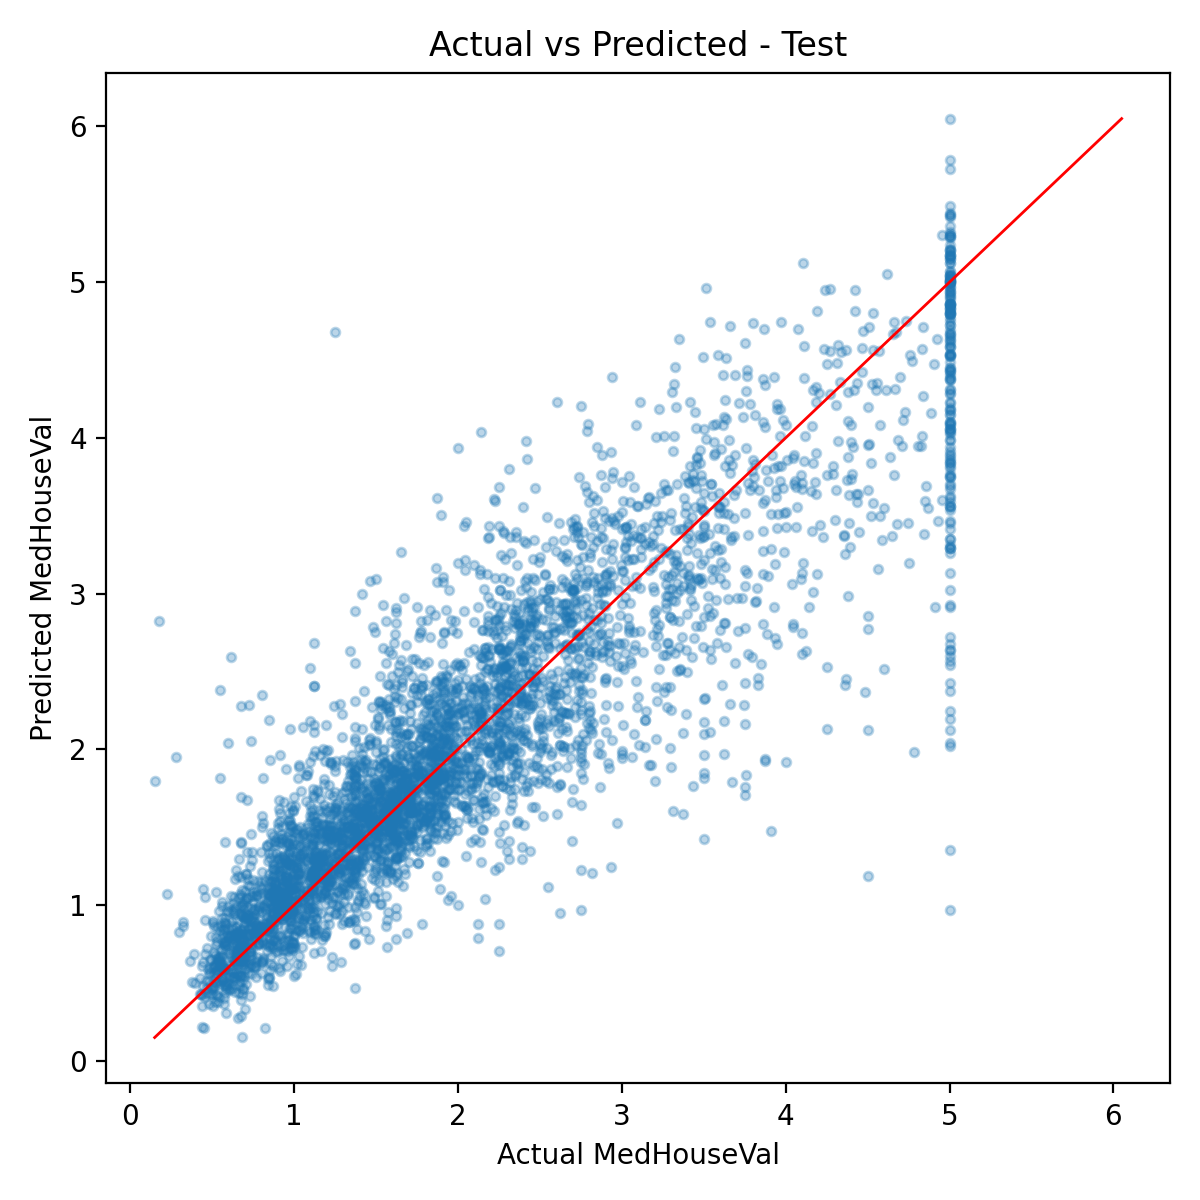
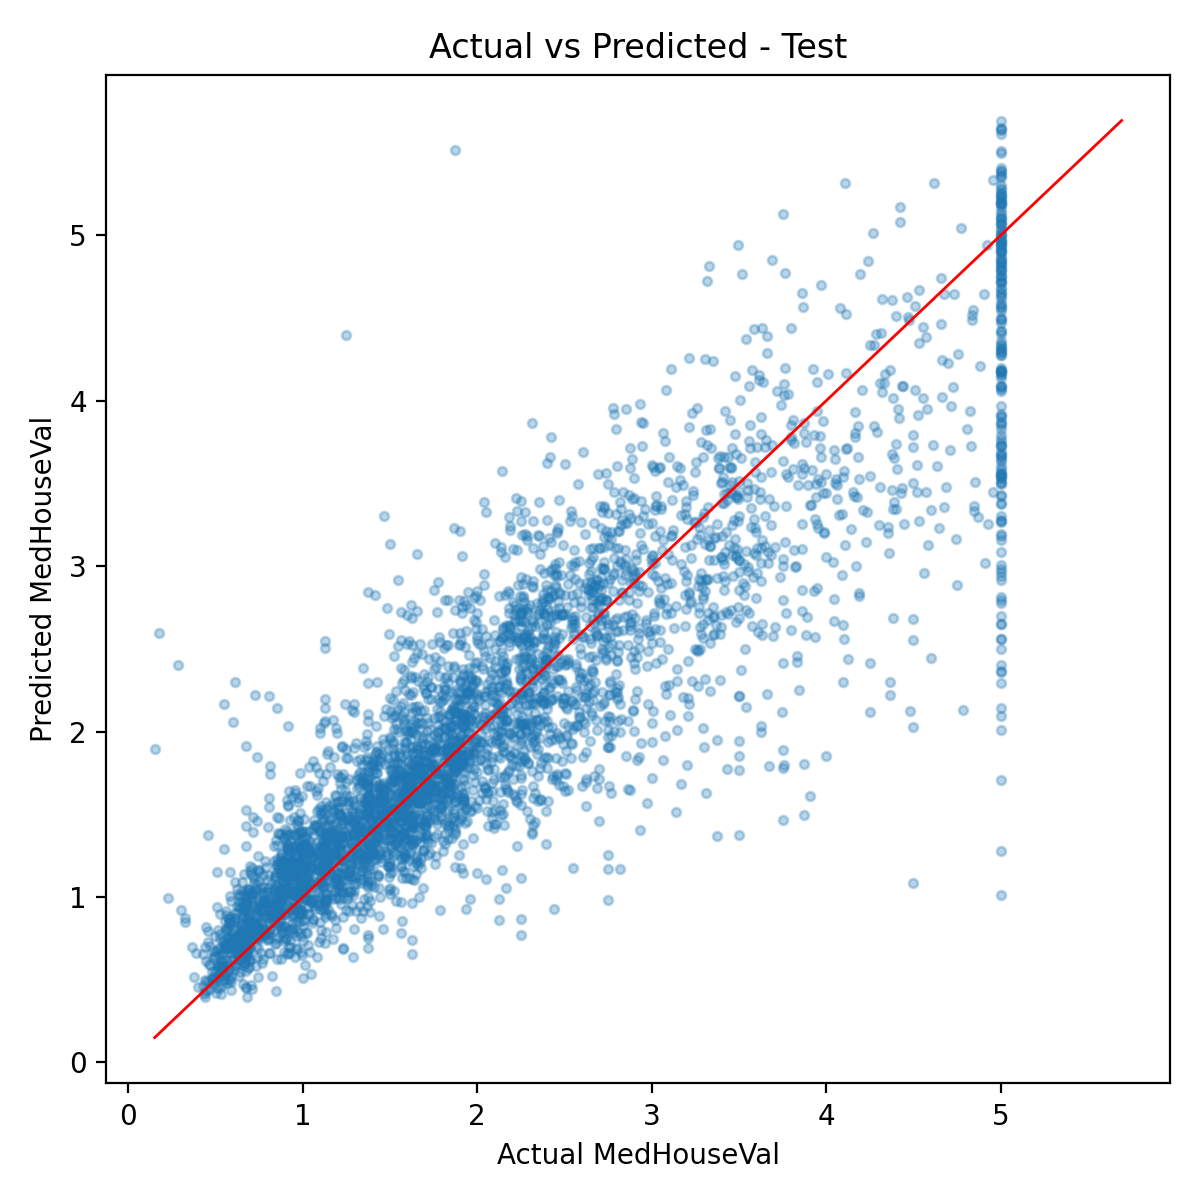
Further hyperparameter tuning

diff --git a/src/ds_pipeline.py b/src/ds_pipeline.py
@@ -45,6 +45,10 @@ scaler = StandardScaler()
 X_train_scaled = scaler.fit_transform(X_train)
 X_test_scaled  = scaler.transform(X_test)
 
+# log transform target
+y_train_log = np.log1p(y_train)
+y_test_log  = np.log1p(y_test)
+
 # train MLPRegressor
 mlp = MLPRegressor(
     random_state=42,
@@ -57,13 +61,13 @@ mlp = MLPRegressor(
     validation_fraction=0.2,
     early_stopping=True
 )
-mlp.fit(X_train_scaled, y_train)
+mlp.fit(X_train_scaled, y_train_log)
 
-# predict
-y_pred_train = mlp.predict(X_train_scaled)
-y_pred_test  = mlp.predict(X_test_scaled)
+# predict 
+y_pred_train = np.expm1(mlp.predict(X_train_scaled))
+y_pred_test  = np.expm1(mlp.predict(X_test_scaled))
 
-# metrics
+# metrics 
 print("train R2:", r2_score(y_train, y_pred_train))
 print("train MAE:", mean_absolute_error(y_train, y_pred_train))
 print("test  R2:", r2_score(y_test, y_pred_test))
